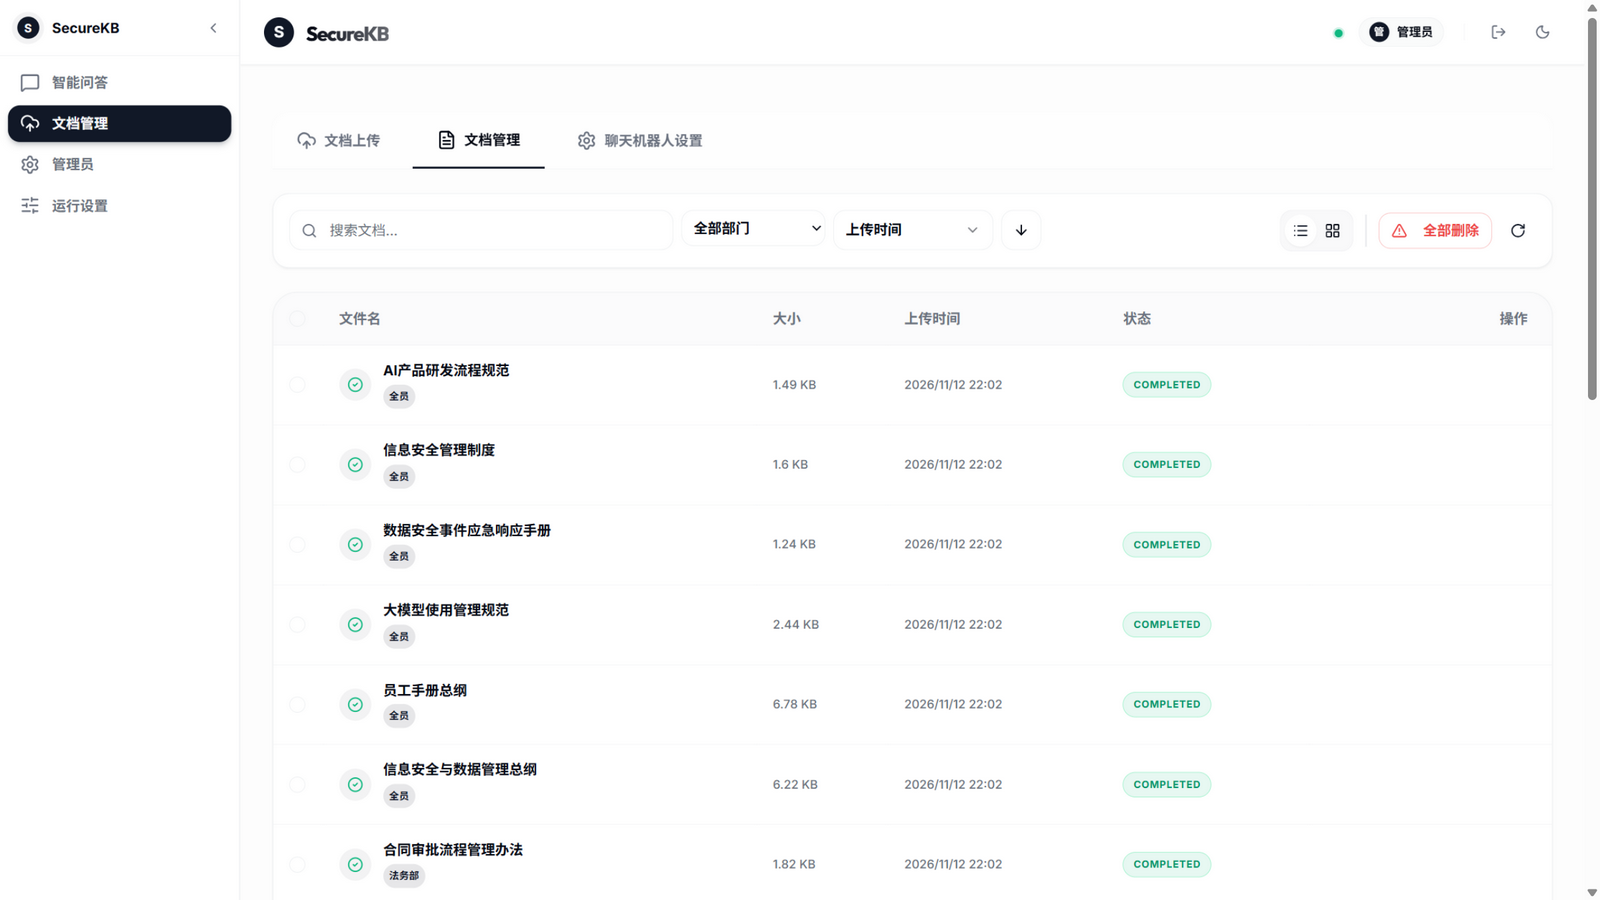
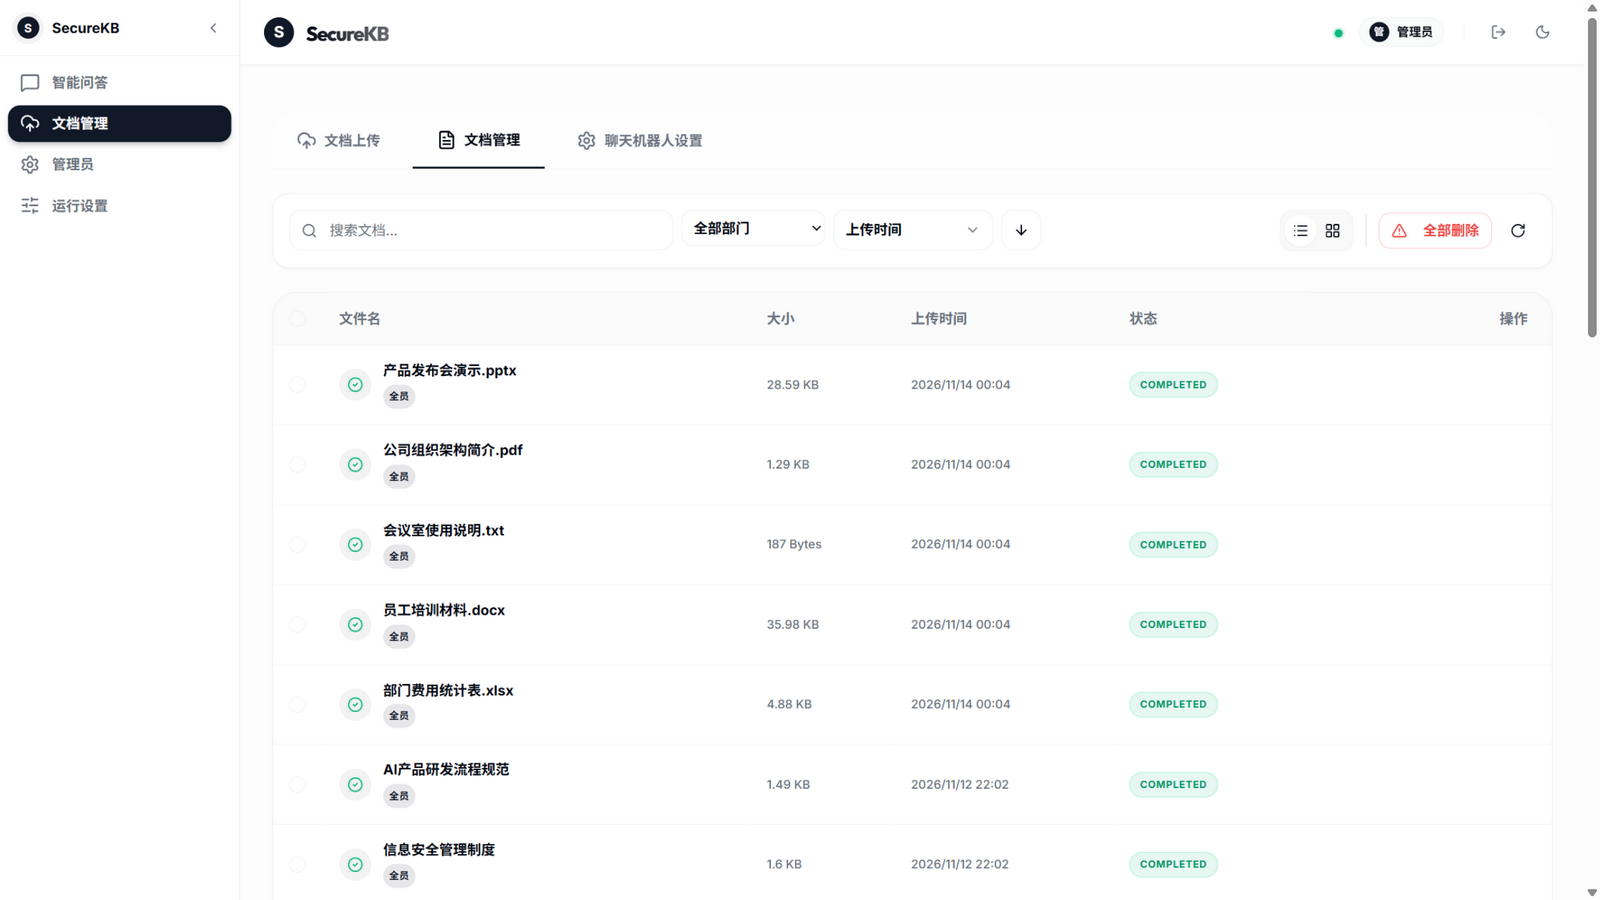
docs: 文档管理截图升级为多格式演示（PDF/Word/Excel/PPT/TXT 规范命名样例）

diff --git a/README.md b/README.md
@@ -35,7 +35,7 @@
 
 ![员工权限隔离](assets/demo-employee-isolation.png)
 
-**知识库文档管理（管理员）**——文档上传、部门标签归类（权限语义）、检索与删除一体：
+**知识库文档管理（管理员）**——多格式解析入库（PDF / Word / Excel / PPT / TXT / Markdown 等）、部门标签归类（权限语义）、检索与删除一体：
 
 ![知识库文档管理](assets/demo-doc-management.png)
 
